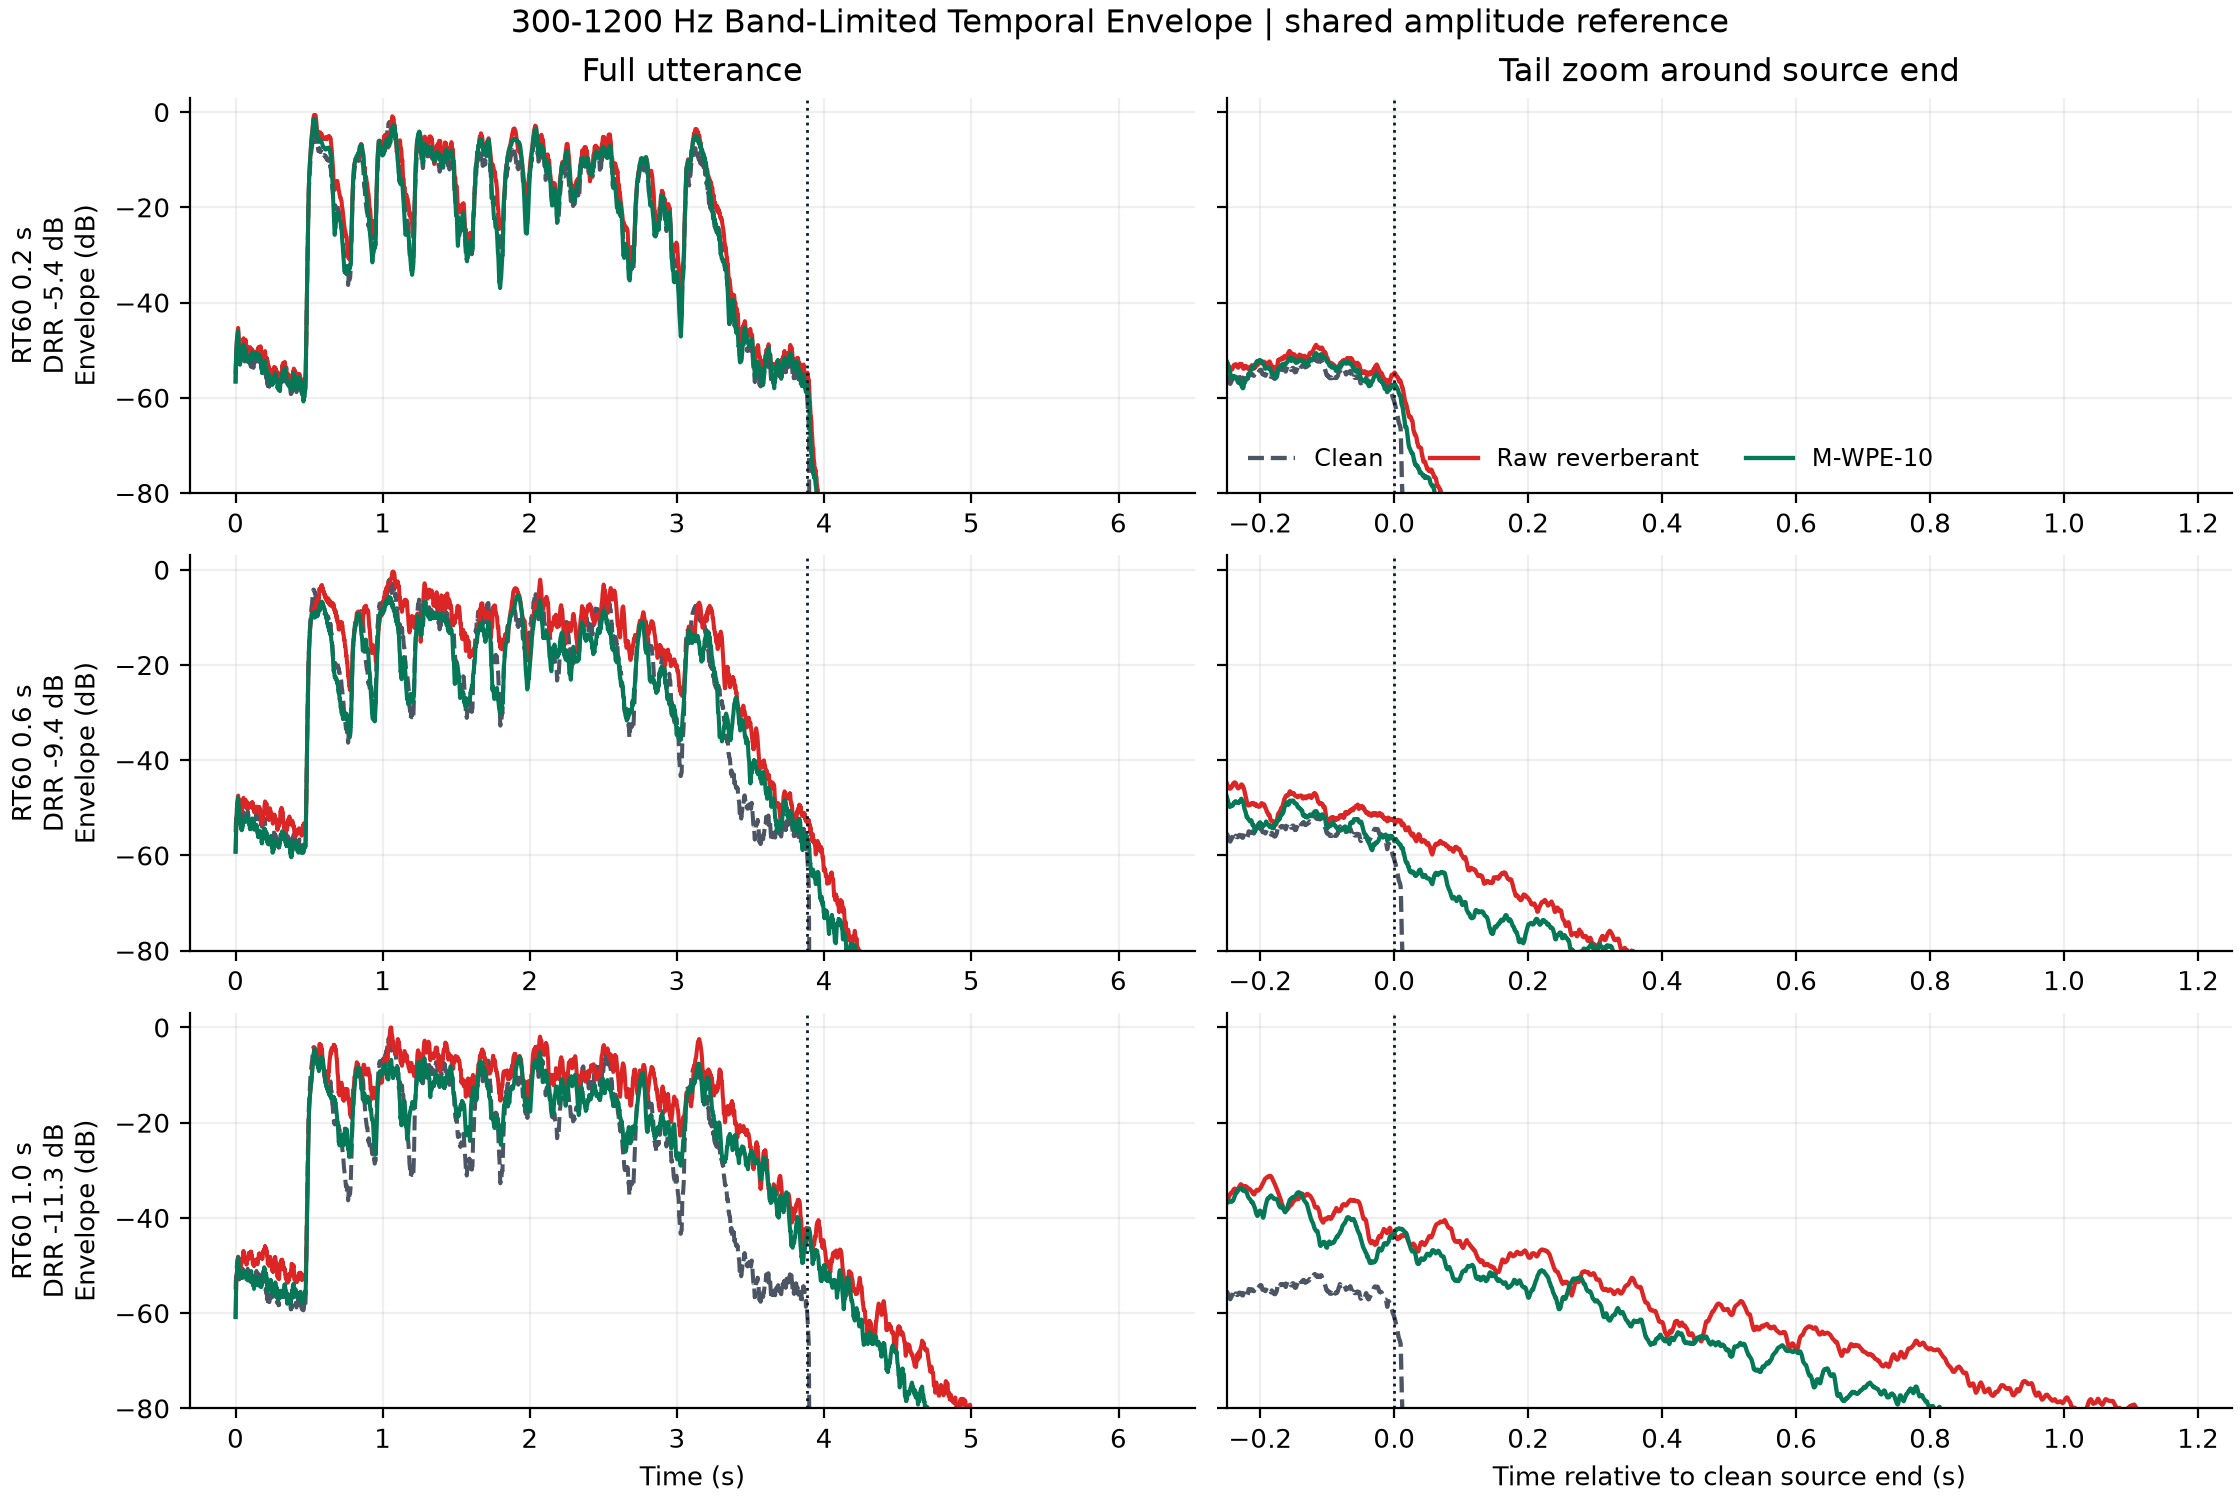
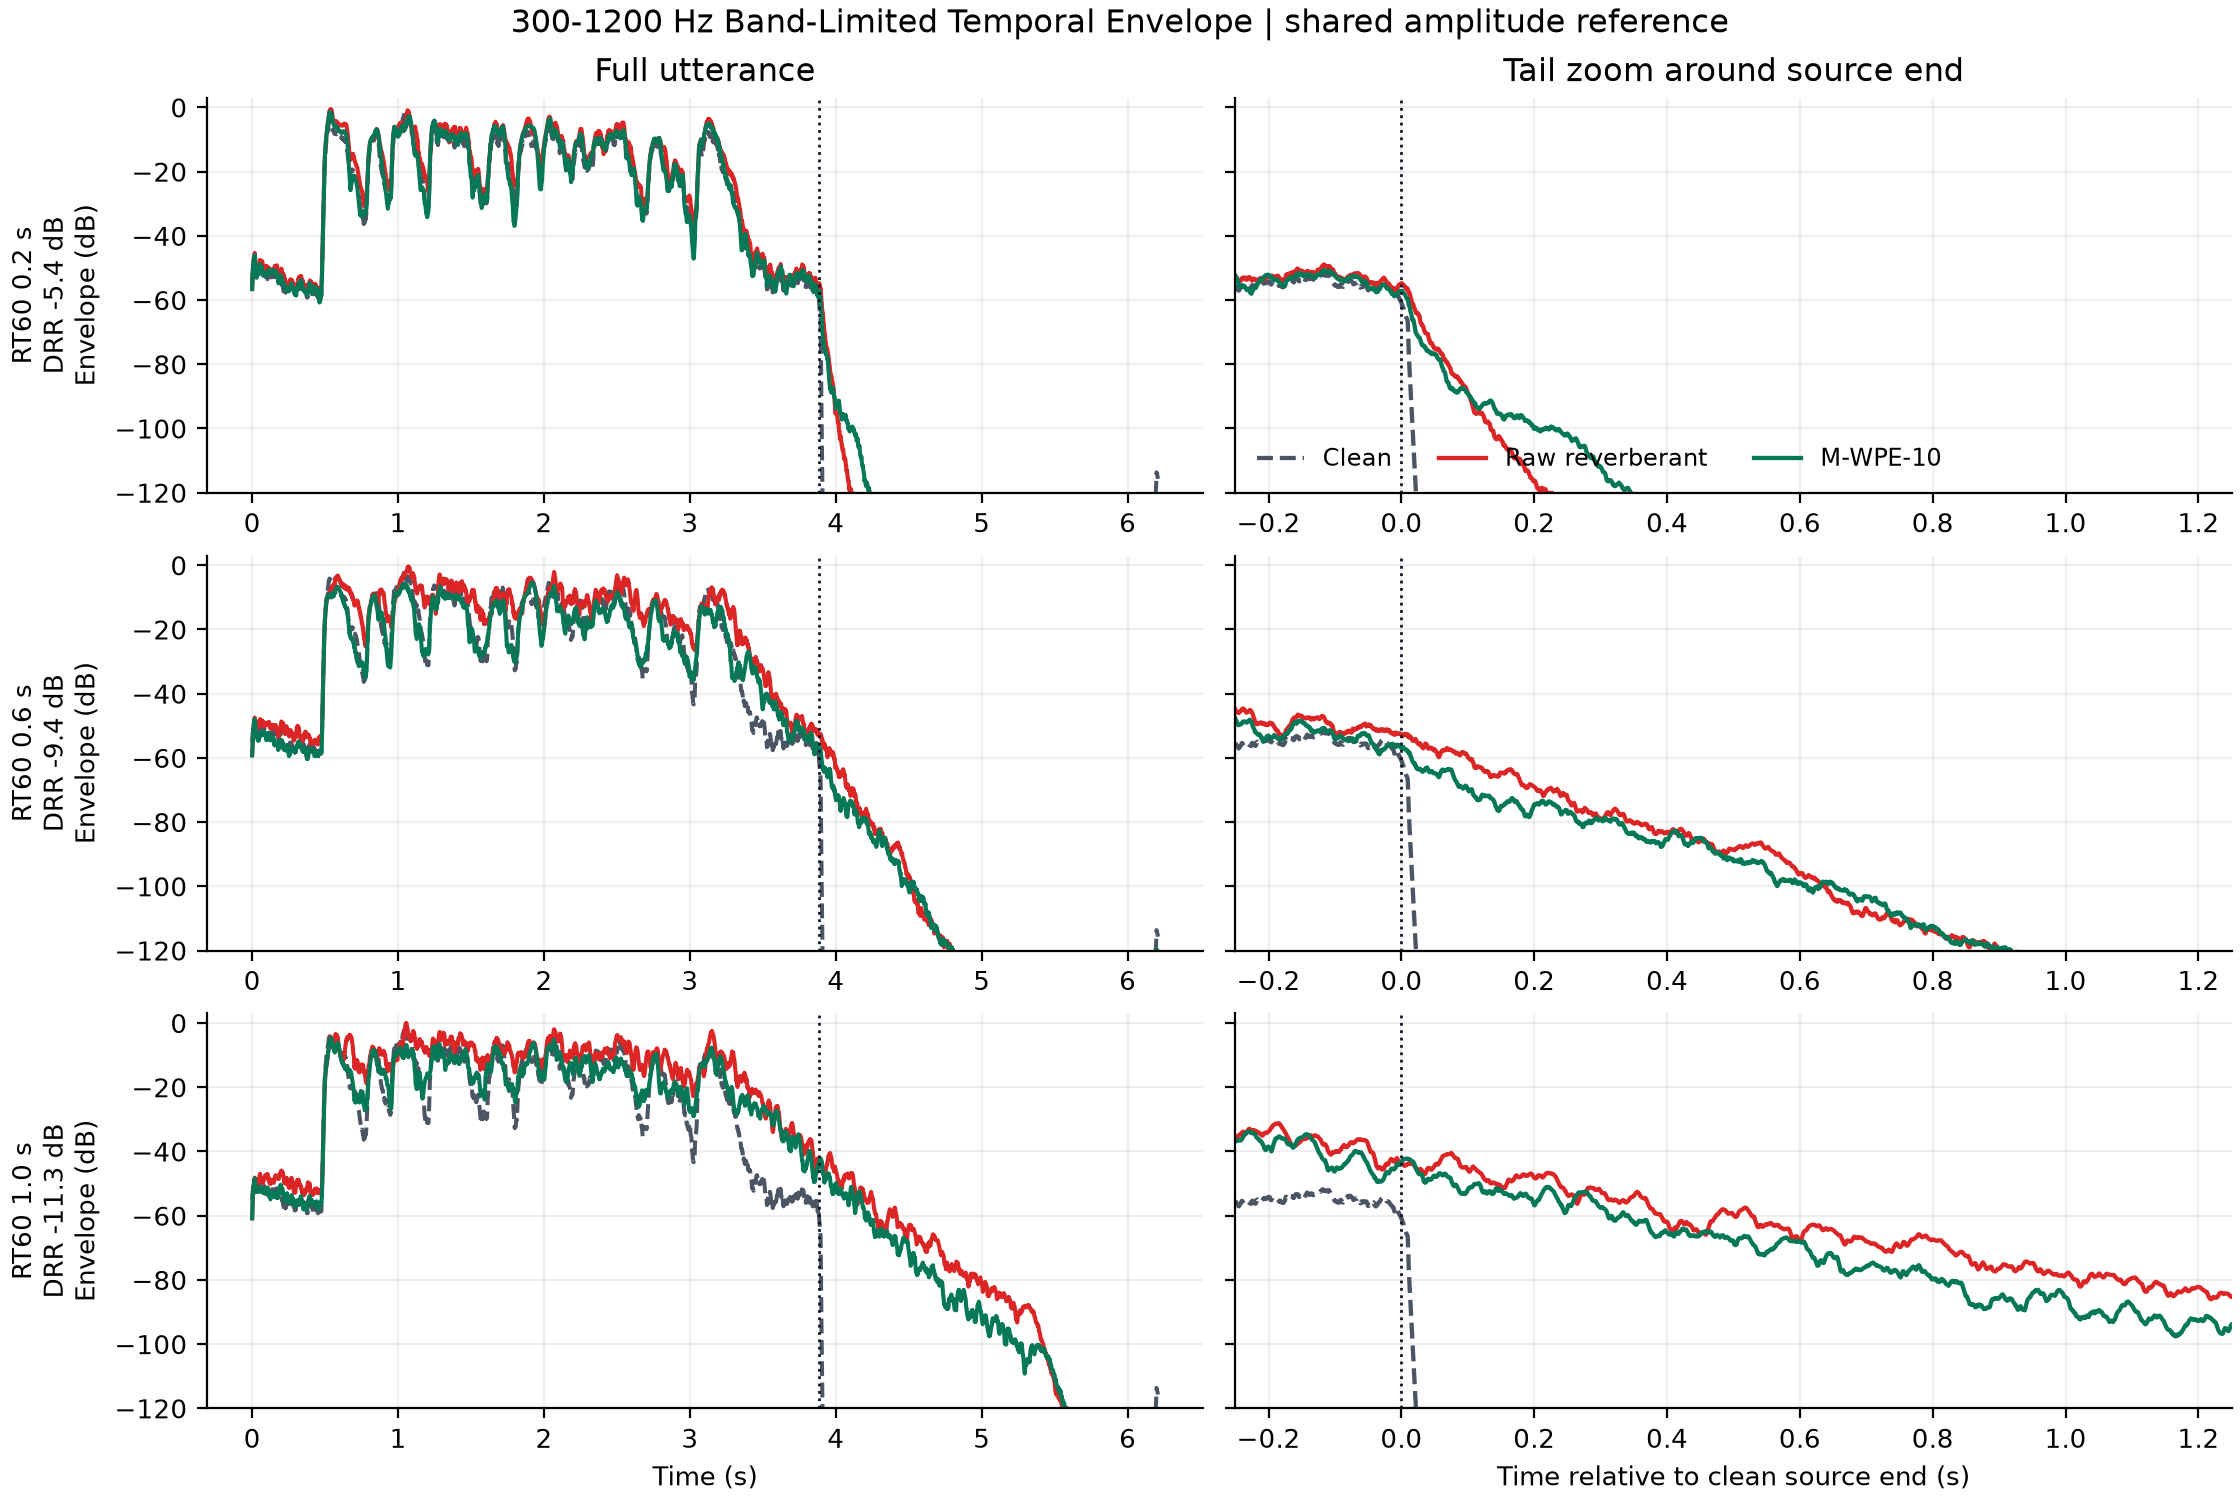
docs: extend reverberation envelope range

diff --git a/scripts/robust_asr/plot_reverberation_examples.py b/scripts/robust_asr/plot_reverberation_examples.py
@@ -324,7 +324,7 @@ def _plot_band_envelopes(
             envelope_db = 20.0 * np.log10(
                 np.maximum(
                     prepared[(row_index, field)] / reference,
-                    1e-5,
+                    1e-7,
                 )
             )
             axes[row_index, 0].plot(
@@ -352,7 +352,7 @@ def _plot_band_envelopes(
                 linewidth=1.0,
             )
             axis.grid(alpha=0.2)
-            axis.set_ylim(-80.0, 3.0)
+            axis.set_ylim(-120.0, 3.0)
         axes[row_index, 0].set_ylabel(
             f"RT60 {example.target_rt60:.1f} s\n"
             f"DRR {example.drr_db:+.1f} dB\nEnvelope (dB)"
